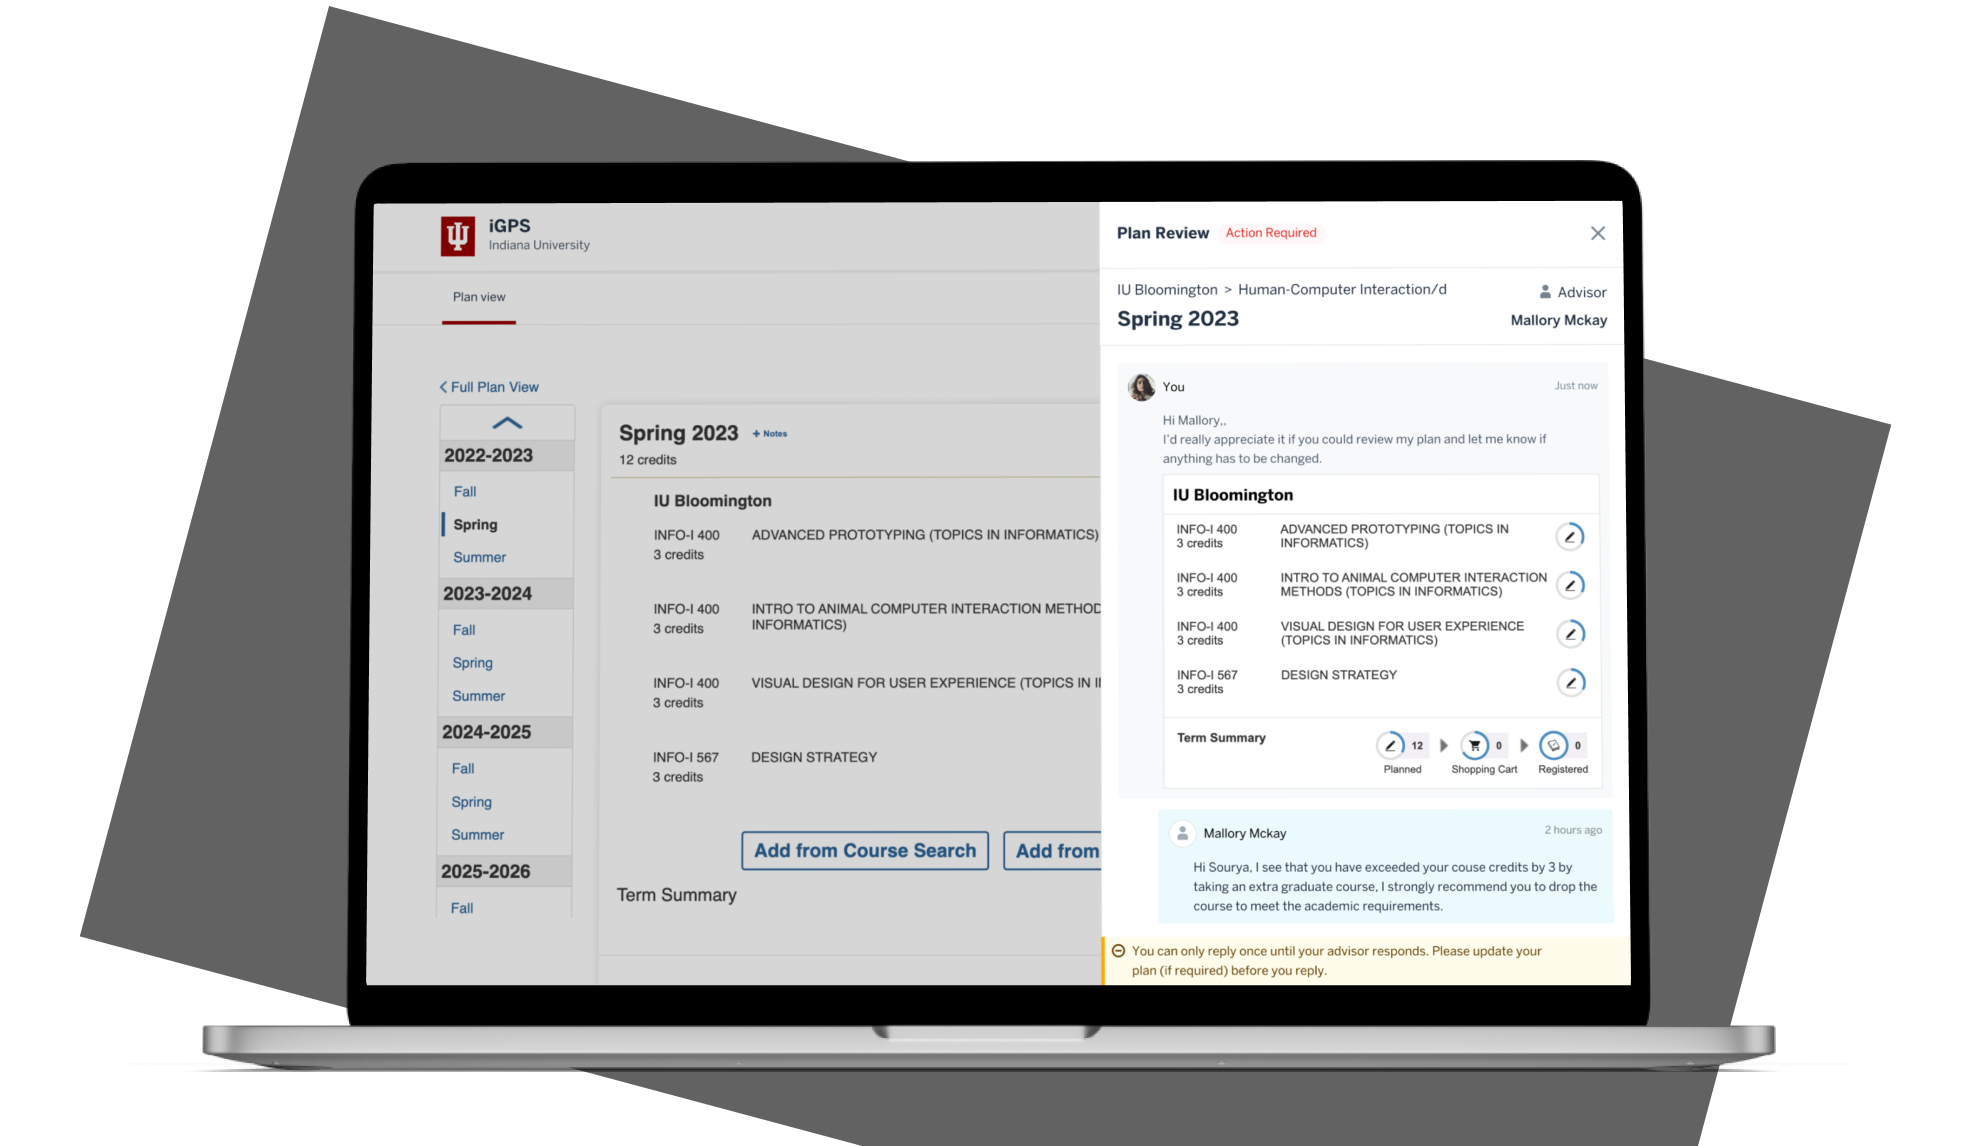
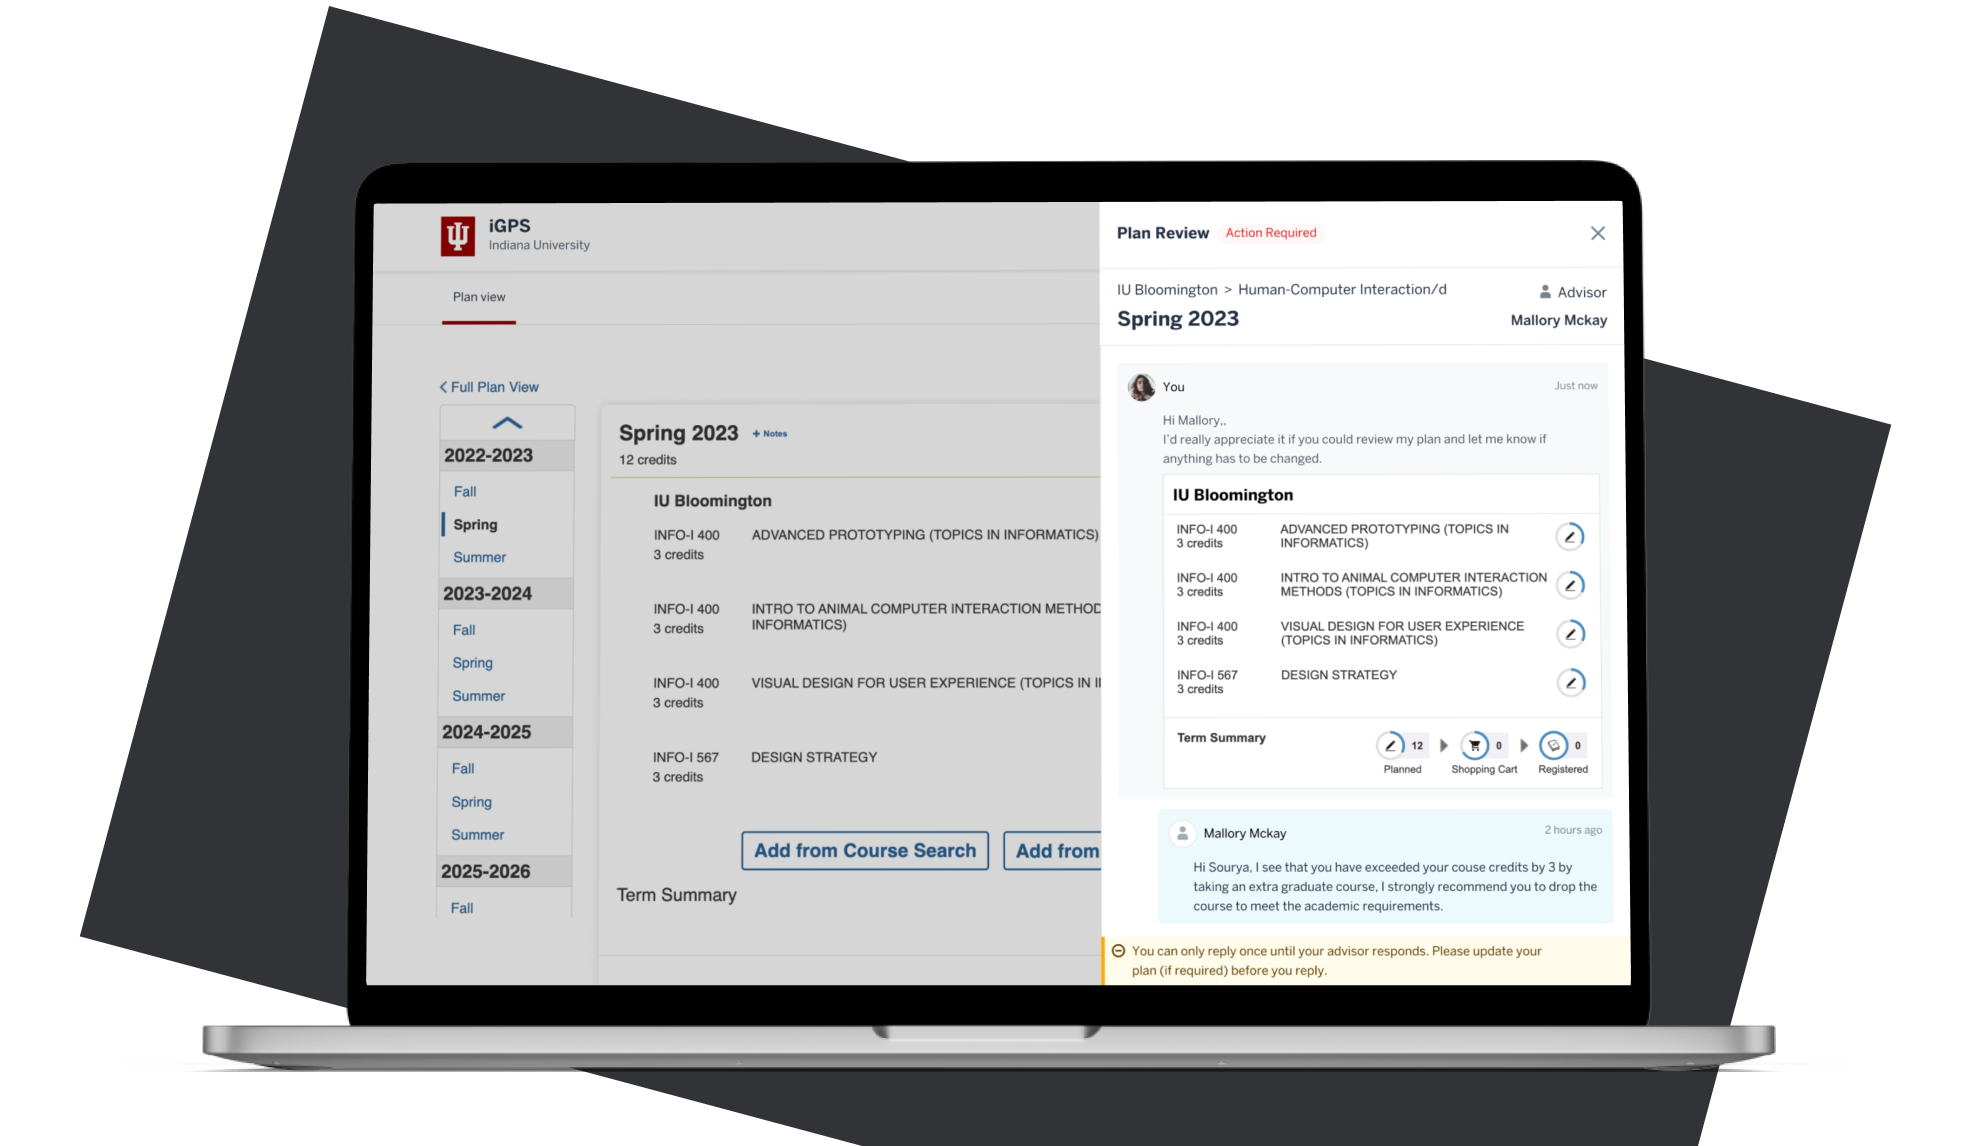
ref: add tags

Changed region(s): [[0.0309, 0.0, 0.464, 0.8857], [0.3093, 0.3054, 0.9589, 1.0]]

diff --git a/src/components/work.vue b/src/components/work.vue
@@ -4,10 +4,10 @@
     style="background: #f9f9fb"
   >
     <div class="layout-container__inner py-0">
-      <!-- style="margin-top:-3rem;" -->
+      <sectionTitle :title="'work'" :is_dark="true"></sectionTitle>
       <div class="projectlist mx-auto mt-10">
         <v-row wrap>
-          <v-col cols="12" md="6">
+          <v-col cols="12" md="6" class="mt-6">
             <!-- NOTIFICATIONS -->
             <div
               @click.stop="$router.push('/notifications')"
@@ -63,12 +63,21 @@
                   :style="'background:grey;height: 2px; width:2rem;opacity:0.5;'"
                 ></div>
               </div>
-              <div class="font-weight-medium text-h5 mb-4">
-                Notification Center
+              <div class="font-weight-medium text-h5">Notification Center</div>
+              <div>
+                <div
+                  class="d-flex align-center body-1 caption text-uppercase font-weight-light mt-1"
+                >
+                  <span>UX Design</span><span class="mx-2">&#x2022;</span>
+                  <span>Shipped</span><span class="mx-2">&#x2022;</span>
+                  <v-chip small class="darkbg lighten-1 white--text body-1 caption"
+                    >B2B SaaS</v-chip
+                  >
+                </div>
               </div>
             </div>
           </v-col>
-          <v-col cols="12" md="6">
+          <v-col cols="12" md="6" class="mt-6">
             <!-- NOTIFICATIONS -->
             <div
               @click.stop="$router.push('/aisuggest')"
@@ -124,12 +133,24 @@
                   :style="'background:grey;height: 2px; width:2rem;opacity:0.5;'"
                 ></div>
               </div>
-              <div class="font-weight-medium text-h5 mb-4">
+              <div class="font-weight-medium text-h5">
                 AI Smart Suggest
+              </div>
+              <div>
+                <div
+                  class="d-flex align-center body-1 caption text-uppercase font-weight-light mt-1"
+                >
+                  <span>UX Design</span><span class="mx-2">&#x2022;</span>
+                  <span>Gen AI</span><span class="mx-2">&#x2022;</span>
+                  <span>Launched</span><span class="mx-2">&#x2022;</span>
+                  <v-chip small class="darkbg lighten-1 white--text body-1 caption"
+                    >B2B SaaS</v-chip
+                  >
+                </div>
               </div>
             </div>
           </v-col>
-          <v-col cols="12" md="6">
+          <v-col cols="12" md="6" class="mt-6">
             <!-- PLANNEr -->
             <div
               @click.stop="$router.push('/plan')"
@@ -141,7 +162,7 @@
                   <div class="card-image">
                     <img
                       width="100%"
-                      :src="require(`@/assets/media/plan/planner-hero.png`)"
+                      :src="require(`@/assets/media/plan/planner-hero2.png`)"
                     />
                   </div>
                 </div>
@@ -185,10 +206,23 @@
                   :style="'background:grey;height: 2px; width:2rem;opacity:0.5;'"
                 ></div>
               </div>
-              <div class="font-weight-medium text-h5 mb-4">Course Planner</div>
+              <div class="font-weight-medium text-h5">Course Planner</div>
+              <div>
+                <div
+                  class="d-flex align-center body-1 caption text-uppercase font-weight-light mt-1"
+                >
+                  <span>UX design</span><span class="mx-2">&#x2022;</span>
+                  <span>Usability test</span><span class="mx-2">&#x2022;</span>
+
+                  <span>Launched</span><span class="mx-2">&#x2022;</span>
+                  <v-chip small class="darkbg lighten-1 white--text body-1 caption"
+                    >B2C</v-chip
+                  >
+                </div>
+              </div>
             </div>
           </v-col>
-          <v-col cols="12" md="6">
+          <v-col cols="12" md="6" class="mt-6">
             <!-- THERM -->
             <div
               @click.stop="$router.push('/therm')"
@@ -244,12 +278,26 @@
                   :style="'background:grey;height: 2px; width:2rem;opacity:0.5;'"
                 ></div>
               </div>
-              <div class="font-weight-medium text-h5 mb-4">
-                Defect management for solar
+              <div class="font-weight-medium text-h5">
+                Solar Defect Management
+              </div>
+              <div>
+                <div
+                  class="d-flex align-center body-1 caption text-uppercase font-weight-light mt-1"
+                >
+                <span>Front-end</span><span class="mx-2">&#x2022;</span>
+                  <span>UX</span><span class="mx-2">&#x2022;</span>
+                  <span>ML app</span><span class="mx-2">&#x2022;</span>
+                  <span>Launched</span><span class="mx-2">&#x2022;</span>
+
+                  <v-chip small class="darkbg lighten-1 white--text body-1 caption"
+                    >B2B SaaS</v-chip
+                  >
+                </div>
               </div>
             </div>
           </v-col>
-          <v-col cols="12" md="6">
+          <v-col cols="12" md="6" class="mt-6">
             <!-- THERM -->
             <div
               @click.stop="$router.push('/capstone')"
@@ -307,12 +355,27 @@
                   :style="'background:grey;height: 2px; width:2rem;opacity:0.5;'"
                 ></div>
               </div>
-              <div class="font-weight-medium text-h5 mb-4">
-                AR/AI/ML Game Design
+              <div class="font-weight-medium text-h5">
+                Museum AR/AI/ML 
               </div>
+              <div>
+                <div
+                  class="d-flex align-center body-1 caption text-uppercase font-weight-light mt-1"
+                >
+                <span>Augmented reality</span><span class="mx-2">&#x2022;</span>
+                  <span>Gen AI</span><span class="mx-2">&#x2022;</span>
+                  <span>Game UX</span><span class="mx-2">&#x2022;</span>
+                  <span>Launched</span><span class="mx-2">&#x2022;</span>
+
+                  <v-chip small class="darkbg lighten-1 white--text body-1 caption"
+                    >Course project</v-chip
+                  >
+                </div>
+              </div>
+
             </div>
           </v-col>
-          <v-col cols="12" md="6">
+          <v-col cols="12" md="6" class="mt-6">
             <!-- STR -->
             <div
               @click.stop="$router.push('/streamanity')"
@@ -324,9 +387,7 @@
                   <div class="card-image">
                     <img
                       width="100%"
-                      :src="
-                        require(`@/assets/media/streamanity/str.png`)
-                      "
+                      :src="require(`@/assets/media/streamanity/str.png`)"
                     />
                   </div>
                 </div>
@@ -370,8 +431,21 @@
                   :style="'background:grey;height: 2px; width:2rem;opacity:0.5;'"
                 ></div>
               </div>
-              <div class="font-weight-medium text-h5 mb-4">
+              <div class="font-weight-medium text-h5">
                 Video Streaming app
+              </div>
+              <div>
+                <div
+                  class="d-flex align-center body-1 caption text-uppercase font-weight-light mt-1"
+                >
+                  <span>UX</span><span class="mx-2">&#x2022;</span>
+                  <span>MVP</span><span class="mx-2">&#x2022;</span>
+
+                  <span>Launched</span><span class="mx-2">&#x2022;</span>
+                  <v-chip small class="darkbg lighten-1 white--text body-1 caption"
+                    >B2C</v-chip
+                  >
+                </div>
               </div>
             </div>
           </v-col>
@@ -774,8 +848,9 @@
 
 <script>
 import SectionTitle from "@/components/project/section-title";
+import sectionOverview from "@/components/project/section-overview.vue";
 export default {
-  components: { SectionTitle },
+  components: { SectionTitle, sectionOverview },
   data: function () {
     return {};
   },
@@ -821,6 +896,8 @@ export default {
 }
 .plan-card {
   background: linear-gradient(280deg, #323337 17.03%, #31343f 90.28%);
+  background: linear-gradient(280deg, #6f7178 17.03%, #4b4d57 90.28%);
+
   border-radius: 1rem;
 }
 .sh-card {
@@ -829,7 +906,7 @@ export default {
 }
 .capstone-card {
   background: linear-gradient(295deg, #ffda75 25.41%, #ffed75 97.08%);
- 
+
   border-radius: 1rem;
 }
 .str-card {
@@ -842,7 +919,7 @@ export default {
     transform-origin: 50% 100%;
     transition: border-radius 0.2s, transform 0.2s, box-shadow 0.5s;
 
-    transform: scale(0.9);
+    transform: scale(0.88);
     border-top-left-radius: 8px;
     border-top-right-radius: 8px;
     overflow: hidden;
